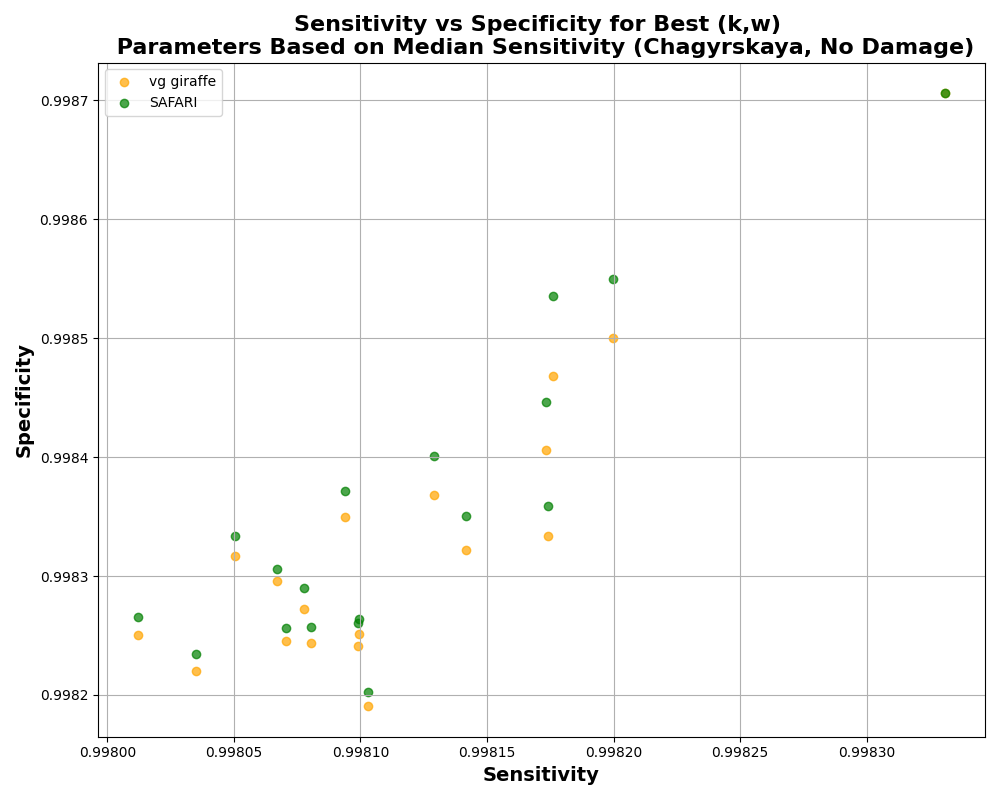
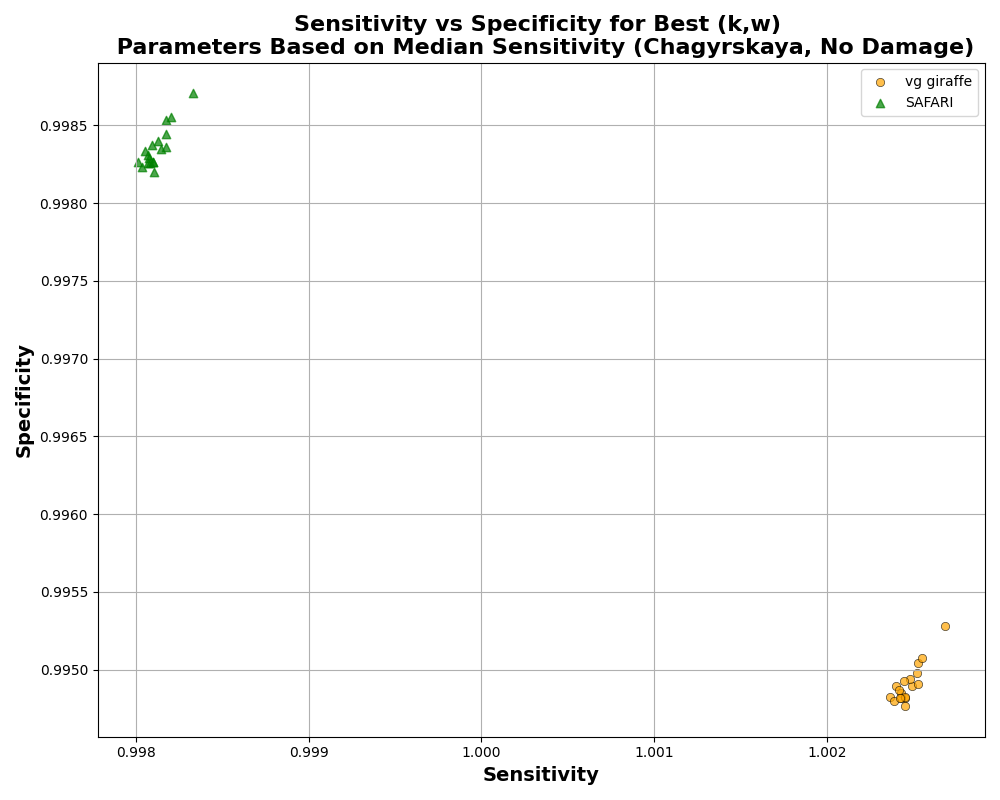
Update

diff --git a/linear_experiment/human_mito/stat_results/plot_svs_none.py b/linear_experiment/human_mito/stat_results/plot_svs_none.py
@@ -2,6 +2,7 @@ import pandas as pd
 import matplotlib.pyplot as plt
 import numpy as np
 import sys
+import random
 
 def calculate_sensitivity(data):
     # No additional calculation needed for sensitivity, assuming it's already a column in the data
@@ -39,10 +40,16 @@ def plot_best_sensitivity(data_path):
                 i += 1
             tool_colors[tool] = color_palette(i)
     
-    # Plot each tool with its assigned color
+    # Modify the plotting loop
     for tool in tools:
         tool_data = best_sensitivity_data[best_sensitivity_data['tool'] == tool]
-        plt.scatter(tool_data['sensitivity'], tool_data['specificity'], label=f'{tool}', color=tool_colors[tool], alpha=0.7)
+        if tool == 'vg giraffe':
+            # Adding slight jitter to 'vg giraffe' data points
+            jittered_sensitivity = tool_data['sensitivity'] + (random.random() * 0.01 - 0.005)
+            jittered_specificity = tool_data['specificity'] + (random.random() * 0.01 - 0.005)
+            plt.scatter(jittered_sensitivity, jittered_specificity, label=f'{tool}', color=tool_colors[tool], alpha=0.7, edgecolor='black', linewidth=0.5)
+        else:
+            plt.scatter(tool_data['sensitivity'], tool_data['specificity'], label=f'{tool}', color=tool_colors[tool], alpha=0.7, marker='^')
 
     plt.title('Sensitivity vs Specificity for Best (k,w) \n Parameters Based on Median Sensitivity (' + sys.argv[3] + ", No Damage)", fontsize=16, fontweight='bold')
     plt.xlabel('Sensitivity', fontsize=14, fontweight='bold')
